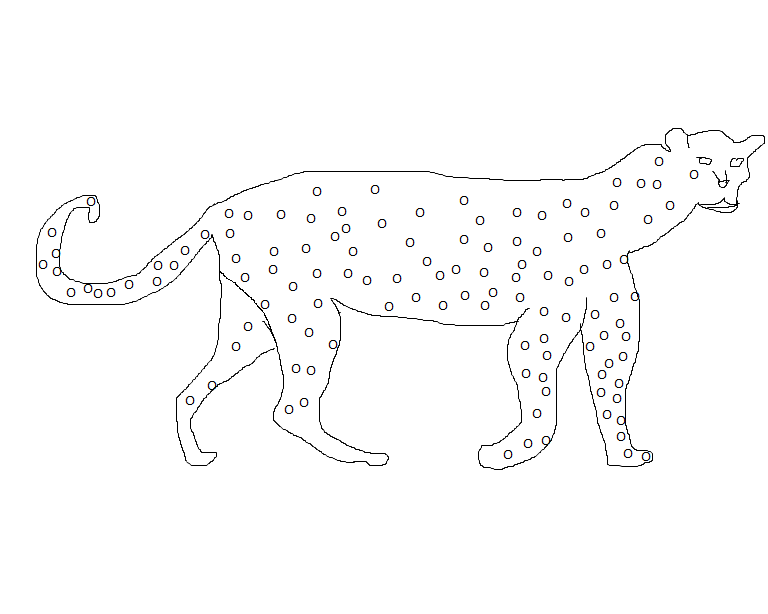
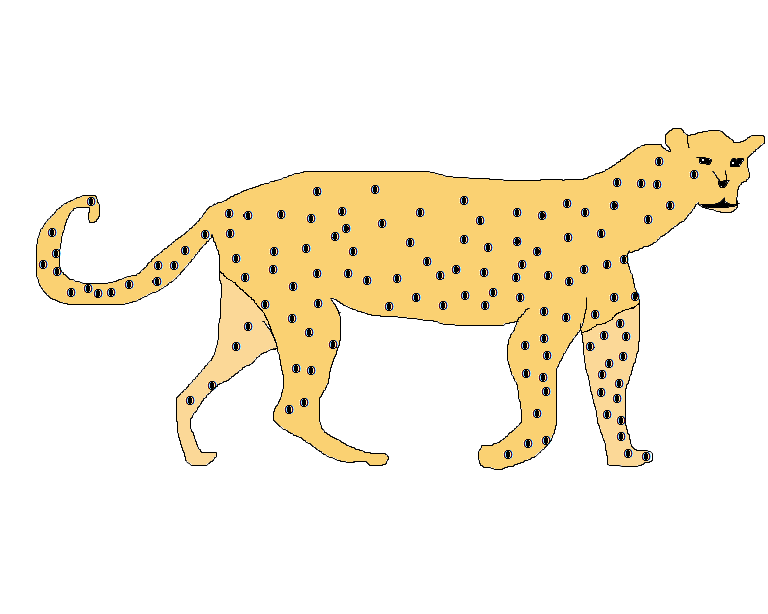
Finished photos for armur leopard and tufted deer

Changed region(s): [[0.0312, 0.2166, 1.0, 0.7736]]

diff --git a/source/aquatic_animals/flying_fish/flying_fish.rst b/source/aquatic_animals/flying_fish/flying_fish.rst
@@ -4,7 +4,7 @@ Flying Fish
 "This is a introductory quote from the text."
 ---------------------------------------------
 
-.. image:: ../../flying_fish.jpg
+.. image:: flying_fish.jpg
    :height: 400px
    :width: 500px
    :align: center

diff --git a/source/land_animals/armur_leopard/armur_leopard.rst b/source/land_animals/armur_leopard/armur_leopard.rst
@@ -1,2 +1,4 @@
 Armur Leopard
 =============
+
+.. image:: armur_leopard.png
